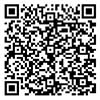
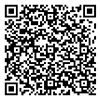
修改footer，替换二维码

diff --git a/src/App.vue b/src/App.vue
@@ -66,6 +66,10 @@
             <router-link to="/aboutUs">关于我们</router-link>
           </li>
           <li @click="advise">意见和建议</li>
+          <li>
+            <img class="ft_code" src="./common/images/weixin.png" alt="weixin">
+            <p>咨询客服微信号</p>
+          </li>
         </ul>
         <ul class="fr_ul">
           <li>工作时间: 9:30～18:30</li>
@@ -237,11 +241,11 @@
       background-color: #222426;
       box-sizing: border-box
       width 1200px
-      height 130px
+      height 160px
       margin 0 auto
       font-size 0
       text-align center
-      padding-top 29px
+      padding-top 20px
       ul {
         font-family: PingFangSC-Regular;
         display inline-block
@@ -254,11 +258,12 @@
       }
       .fl_ul {
         font-size 0
-        margin-right 92px
+        margin-right 80px
         li {
           font-size 14px
           display inline-block
-          margin-right 110px
+          margin-right 80px
+          vertical-align middle
           a {
             color #ffffff
           }
